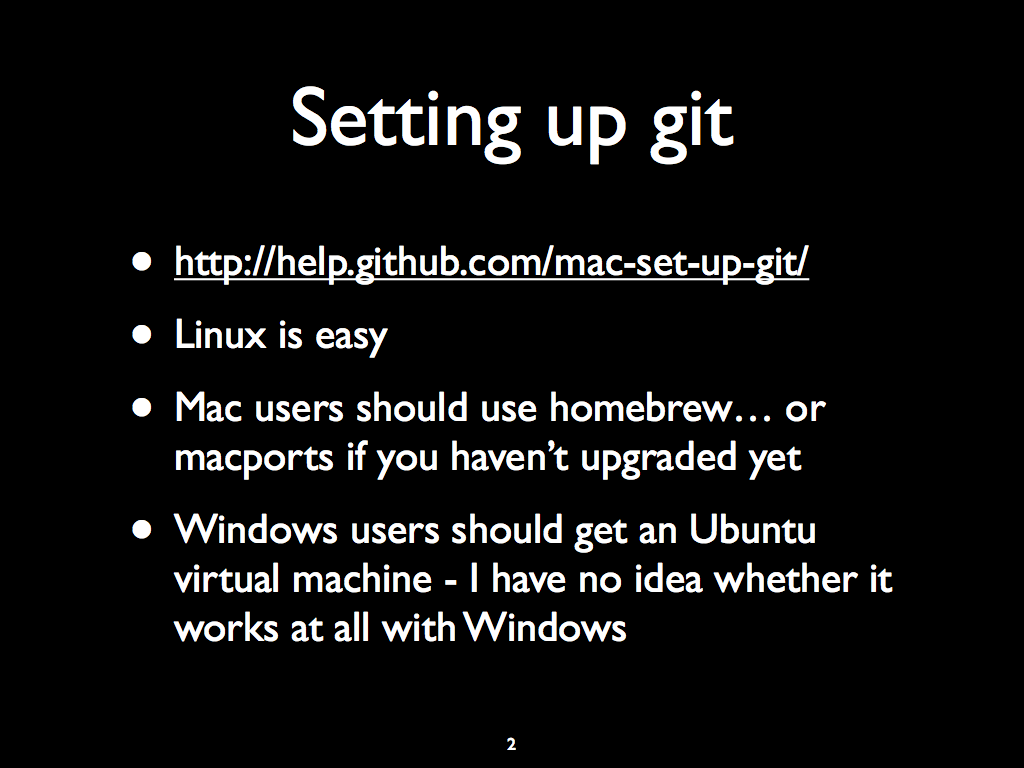
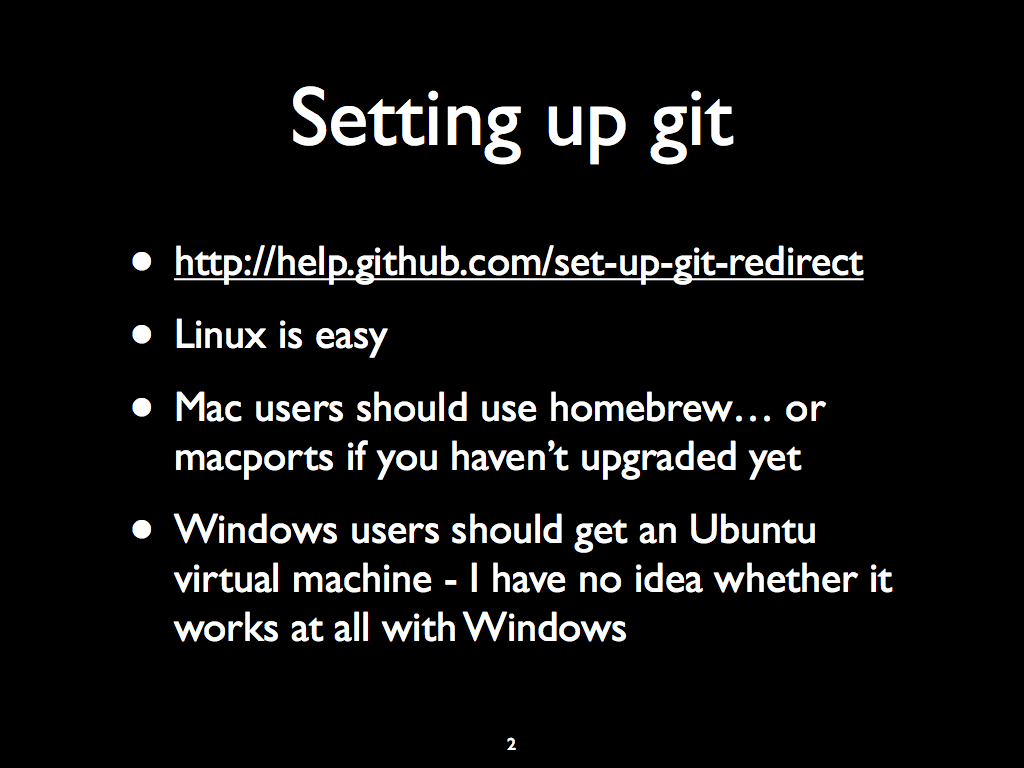
updating pages with the fixed github git setup link

Changed region(s): [[0.5312, 0.3125, 0.8438, 0.375]]

diff --git a/index.html b/index.html
@@ -2,7 +2,7 @@
 <!DOCTYPE html PUBLIC "-//W3C//DTD XHTML 1.0 Transitional//EN" "http://www.w3.org/TR/xhtml1/DTD/xhtml1-transitional.dtd">
 <html>
 <head>
-    <meta name="description" content="Handling version conflicts in git because it’s “a bit tricky”… By Nicholas Rutherford nick.rutherford@gmail.com https://github.com/nruth  Setting up git http://help.github.com/mac-set-up-git/ Linux is easy Mac users should use homebrew… or macports if you haven’t upgraded yet Windows users should get an Ubuntu virtual machine - I have no idea whether it works at all with Windows A nice reference site or 3 http://gitref.org/ http://progit.org http://help.github.com and `git help &lt;command&gt;` Basics For a good intro look at http://progit.org/book/ch1-3.html Each commit is a “filesystem snapshot” of the directory you are version controlling, no duplicates (shared references and gc like in dynamic memory allocation) You work on your PC, locally, until you run a different command to share changes with other people - tentative changes &amp; eventual consistency Follow-along Example Start a new project mkdir my_work; cd my_work git init touch my_first_file git add my_first_file git commit -m “my first commit” Make some changes So far you have a project with 1 commit containing 1 empty file. Add some text to the file try the `git status` and `git diff` commands add your changes to the staging area with `git add &lt;filepath&gt;` - can be a directory, extended filename, or . if you get stuck try `git help add` Staging area Changes are staged before commit This lets you control the granuarity of your commits. This varies by project, but typically you should have 1 commit focussed on 1 program feature, bug fix, or small code change Don’t commit “saving my work” and including the last 3 hours of changes. This is bad practice, and others will not like Selective staging `git status` will now show that you have a staged file create another empty file, but don’t add it to staging run `git status` again Note that only the original file is staged Commit from staging `git commit` (will launch a text editor for the commit message) or `git commit -m “your commit message”` now try git status again also look at `git log` and `git whatchanged` Remote repository  git·hub /'ɡɪtˌhʌb/ “GitHub is the best way to collaborate with others. Fork, send pull requests and manage all your public and private git repositories.” https://github.com/signup/free students can get free upgrades:  https://github.com/edu (private repositories) http://help.github.com/create-a-repo/ Use your existing project it’s ok to add the readme file like they say, just skip the init stuff Create a new github repository Push / Pull / Fetch Push sends updates from your local repository to the remote “reference” (repository address) you provide. Here it will be your repository hosted on github.  It could also be many other places, e.g. sending updates to a deployed webserver on a VPS, or even your local filesystem Transmission protocols include ssh, https, local filesystem, and a few other things Push / Pull / Fetch Fetch downloads updates (commits you haven’t seen yet) from a remote repository It doesn’t apply them, it keeps them in another tree branch You use merge to combine these updates with your own branch  Don’t worry too much about branches for now. Just think of them as parallel copies of your project with different commits. Push / Pull / Fetch Pull = fetch + merge I don’t like this command, because I don’t like automatic merges But most tutorials will show you it, and it’s probably fine for most people. If you fetch and merge I think you will get used to the ideas of remotes, remote branches, branches, etc a lot faster than if you use pull. Branching http://progit.org/book/ch3-0.html I could draw some picturesBut I was supposed to talk about conflict resolution Conflict Resolution What’s a version conflict? For DS students this is easy: think optimistic replication w/ operational transfer when concurrent commits modify similar lines of source code and git can’t work out how to resolve the problem it will give up and ask you to do it Demo project https://github.com/nruth/git-conflict-resolution-demo clone a local copy of this explore the files on github to see how markdown formatting looks when turned into HTML Demo project The README.md explains how to trigger and resolve the merge conflict The tree will look a bit like this after a merge commit Note that each original commit is preserved, with the same SHA hash - no history is lost and the merge commit shows the actual changes made to the filesystem snapshot as a result of merging the branches If you ever experiment with “rebasing” you’ll see that this is quite different"/>
+    <meta name="description" content="Handling version conflicts in git because it’s “a bit tricky”… By Nicholas Rutherford nick.rutherford@gmail.com https://github.com/nruth  Setting up git http://help.github.com/set-up-git-redirect Linux is easy Mac users should use homebrew… or macports if you haven’t upgraded yet Windows users should get an Ubuntu virtual machine - I have no idea whether it works at all with Windows A nice reference site or 3 http://gitref.org/ http://progit.org http://help.github.com and `git help &lt;command&gt;` Basics For a good intro look at http://progit.org/book/ch1-3.html Each commit is a “filesystem snapshot” of the directory you are version controlling, no duplicates (shared references and gc like in dynamic memory allocation) You work on your PC, locally, until you run a different command to share changes with other people - tentative changes &amp; eventual consistency Follow-along Example Start a new project mkdir my_work; cd my_work git init touch my_first_file git add my_first_file git commit -m “my first commit” Make some changes So far you have a project with 1 commit containing 1 empty file. Add some text to the file try the `git status` and `git diff` commands add your changes to the staging area with `git add &lt;filepath&gt;` - can be a directory, extended filename, or . if you get stuck try `git help add` Staging area Changes are staged before commit This lets you control the granuarity of your commits. This varies by project, but typically you should have 1 commit focussed on 1 program feature, bug fix, or small code change Don’t commit “saving my work” and including the last 3 hours of changes. This is bad practice, and others will not like Selective staging `git status` will now show that you have a staged file create another empty file, but don’t add it to staging run `git status` again Note that only the original file is staged Commit from staging `git commit` (will launch a text editor for the commit message) or `git commit -m “your commit message”` now try git status again also look at `git log` and `git whatchanged` Remote repository  git·hub /'ɡɪtˌhʌb/ “GitHub is the best way to collaborate with others. Fork, send pull requests and manage all your public and private git repositories.” https://github.com/signup/free students can get free upgrades:  https://github.com/edu (private repositories) http://help.github.com/create-a-repo/ Use your existing project it’s ok to add the readme file like they say, just skip the init stuff Create a new github repository Push / Pull / Fetch Push sends updates from your local repository to the remote “reference” (repository address) you provide. Here it will be your repository hosted on github.  It could also be many other places, e.g. sending updates to a deployed webserver on a VPS, or even your local filesystem Transmission protocols include ssh, https, local filesystem, and a few other things Push / Pull / Fetch Fetch downloads updates (commits you haven’t seen yet) from a remote repository It doesn’t apply them, it keeps them in another tree branch You use merge to combine these updates with your own branch  Don’t worry too much about branches for now. Just think of them as parallel copies of your project with different commits. Push / Pull / Fetch Pull = fetch + merge I don’t like this command, because I don’t like automatic merges But most tutorials will show you it, and it’s probably fine for most people. If you fetch and merge I think you will get used to the ideas of remotes, remote branches, branches, etc a lot faster than if you use pull. Branching http://progit.org/book/ch3-0.html I could draw some picturesBut I was supposed to talk about conflict resolution Conflict Resolution What’s a version conflict? For DS students this is easy: think optimistic replication w/ operational transfer when concurrent commits modify similar lines of source code and git can’t work out how to resolve the problem it will give up and ask you to do it Demo project https://github.com/nruth/git-conflict-resolution-demo clone a local copy of this explore the files on github to see how markdown formatting looks when turned into HTML Demo project The README.md explains how to trigger and resolve the merge conflict The tree will look a bit like this after a merge commit Note that each original commit is preserved, with the same SHA hash - no history is lost and the merge commit shows the actual changes made to the filesystem snapshot as a result of merging the branches If you ever experiment with “rebasing” you’ll see that this is quite different"/>
     <title></title>
     <script type="text/javascript" language="javascript">
 //      <![CDATA[
